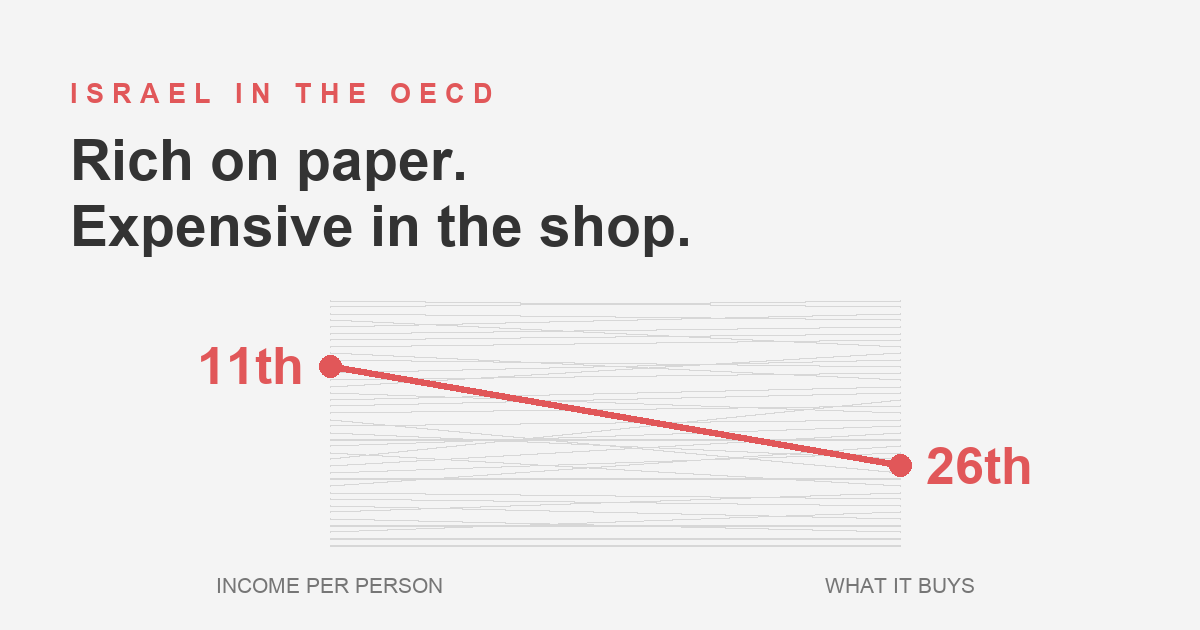
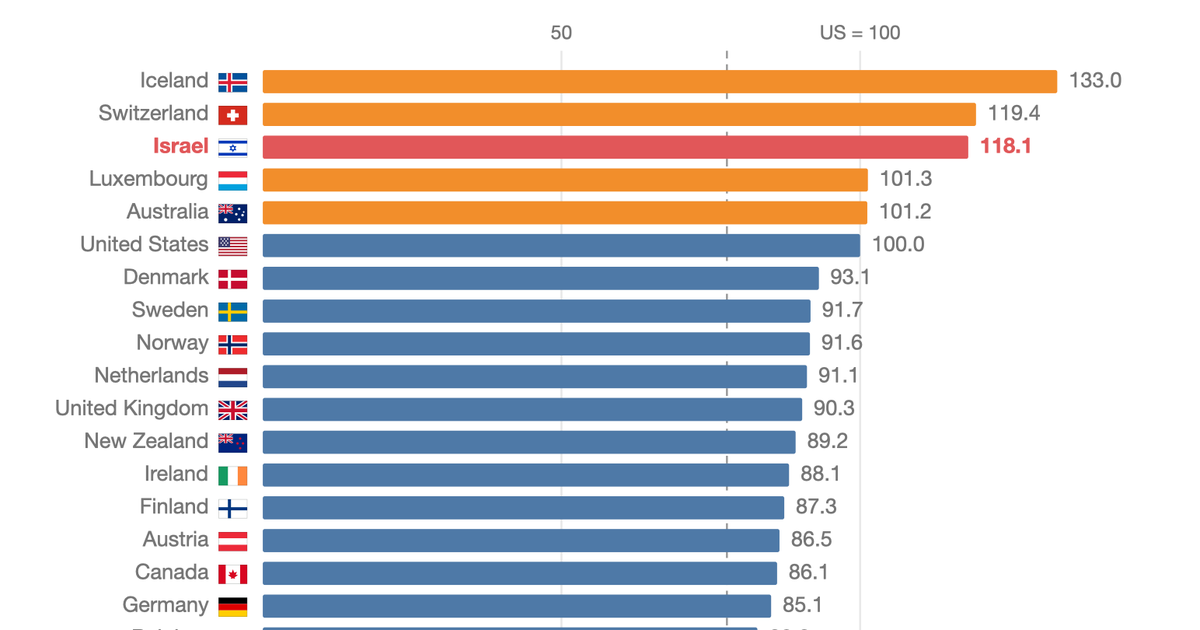
Newspaper masthead and byline; card image is now the real chart
Thumbnail: replaced the graphic I had invented with an actual render of
the price-level chart from the article -- the one carrying all 38 flags.
It is generated by running charts.js headlessly at the real 622px column
width with the real stylesheet, so it is the chart as published, not a
redrawing of it. assets/chart-price-level.png is the full 38-country
chart; assets/og-cost-of-living.png is its top slice at 1200x630 for
link previews. The invented slope graphic is deleted.

The card crops the image to 360px with object-position: top, because a
612px-tall thumbnail pushes the headline below the fold and no news site
does that. Israel still sits third from the top, in red. Removing the
height/object-fit/object-position lines shows all 38 rows instead.

News chrome, using only what was already true on the site: centred
masthead over a rule, the existing tagline set in small caps, an
uppercase nav bar between rules, and on the article a section kicker
above the headline with a "By David Zeff" byline over the date line.
Nothing invented -- no fake sections, no fake counters, no placeholder
furniture.

Also untangled the card CSS. `.card p` was a descendant selector that
kept outranking the one-class rules beside it, which is what broke the
kicker colour earlier; excerpts now carry an .excerpt class and the
generic rule is gone.

qlmanage fits SVG to width on a square canvas, so a portrait chart got
clipped. The screenshot pipeline pads to a square canvas and locates a
[…]

diff --git a/assets/styles.css b/assets/styles.css
@@ -32,15 +32,22 @@ body {
 a { color: var(--blue); }
 a:hover { color: var(--red); }
 
-/* --- header and footer --- */
-header, footer {
-  display: flex; justify-content: space-between; flex-wrap: wrap; gap: 10px;
-  font-family: var(--sans); font-size: 14px;
-}
-header { margin-bottom: 40px; padding-bottom: 12px; border-bottom: 1px solid var(--line); }
-footer { margin-top: 60px; padding-top: 12px; border-top: 1px solid var(--line); color: var(--muted); }
-header > a { font-weight: bold; color: var(--text); text-decoration: none; }
-nav a + a, footer span a + a { margin-left: 14px; }
+/* --- masthead --- */
+header { text-align: center; margin-bottom: 32px; border-bottom: 3px solid var(--text); }
+.masthead { display: block; font-size: 42px; font-weight: bold; line-height: 1.1;
+            letter-spacing: -.5px; color: var(--text); text-decoration: none; }
+.tagline { font-family: var(--sans); font-size: 11px; letter-spacing: 2px; text-transform: uppercase;
+           color: var(--muted); margin: 7px 0 14px; }
+header nav { display: flex; justify-content: center; gap: 26px; padding: 9px 0;
+             border-top: 1px solid var(--line); font-family: var(--sans);
+             font-size: 12px; letter-spacing: 1.2px; text-transform: uppercase; }
+header nav a { color: var(--text); text-decoration: none; }
+header nav a:hover { color: var(--red); }
+
+footer { display: flex; justify-content: space-between; flex-wrap: wrap; gap: 10px;
+         margin-top: 60px; padding-top: 12px; border-top: 1px solid var(--line);
+         font-family: var(--sans); font-size: 14px; color: var(--muted); }
+footer span a + a { margin-left: 14px; }
 
 /* --- text --- */
 h1 { font-size: 32px; line-height: 1.25; margin: 0 0 12px; }
@@ -51,7 +58,10 @@ ul, ol { padding-left: 24px; }
 li { margin-bottom: 8px; }
 
 .deck { font-size: 21px; color: #555; margin-bottom: 14px; }
+.byline { font-family: var(--sans); font-size: 14px; font-weight: bold; margin: 0 0 3px; }
 .meta { font-family: var(--sans); font-size: 13px; color: var(--muted); margin-bottom: 36px; }
+.kicker { font-family: var(--sans); font-size: 12px; font-weight: bold; letter-spacing: 1px;
+          text-transform: uppercase; color: var(--red); margin: 0 0 6px; }
 .meta span + span::before { content: " | "; }
 
 blockquote { margin: 34px 0; padding: 4px 0 4px 18px; border-left: 4px solid var(--blue);
@@ -83,21 +93,18 @@ figcaption { font-family: var(--sans); font-size: 12px; line-height: 1.5; color:
 .posts { list-style: none; padding: 0; margin: 0 0 20px; }
 .card { display: flex; gap: 16px; margin: 0; padding: 20px 0; border-bottom: 1px solid var(--line); }
 .card img { display: block; width: 170px; height: auto; border: 1px solid var(--line); }
-.card p { margin: 0 0 6px; font-size: 16px; color: #555; }
-.card .meta { font-size: 13px; margin: 8px 0 0; }
-/* .card .kicker, not .kicker: `.card p` and `.card--lead > div > p` both
-   outrank a lone class and would steal the colour and the size */
-.card .kicker { font-family: var(--sans); font-size: 12px; font-weight: bold; letter-spacing: 1px;
-          text-transform: uppercase; color: var(--red); margin: 0 0 4px; }
+.excerpt { margin: 0; font-size: 16px; color: #555; }
+.card .meta { font-size: 13px; margin: 10px 0 0; }
 .card__title { margin: 0 0 8px; font-size: 21px; line-height: 1.3; }
 .card__title a { color: var(--text); text-decoration: none; }
 .card__title a:hover { color: var(--blue); text-decoration: underline; }
 
 /* lead story: image on top, everything bigger */
 .card--lead { display: block; padding-top: 0; }
-.card--lead img { width: 100%; margin-bottom: 16px; }
-.card--lead .card__title { font-size: 31px; }
-.card--lead > div > p { font-size: 17px; }
+.card--lead img { width: 100%; height: 360px; object-fit: cover; object-position: top;
+                  margin-bottom: 16px; }
+.card--lead .card__title { font-size: 32px; }
+.card--lead .excerpt { font-size: 17px; }
 
 @media (max-width: 560px) {
   .card { display: block; }

diff --git a/index.html b/index.html
@@ -19,7 +19,8 @@
 <a class="skip" href="#main">Skip to content</a>
 
 <header>
-  <a href="./">David Zeff</a>
+  <a class="masthead" href="./">David Zeff</a>
+  <p class="tagline">Economics, public policy and the numbers underneath them</p>
   <nav><a href="./">Essays</a><a href="about.html">About</a></nav>
 </header>
 
@@ -29,13 +30,13 @@
 
     <li class="card card--lead">
       <a href="posts/israel-cost-of-living.html">
-        <img src="assets/thumb-cost-of-living.svg" width="640" height="400"
-             alt="Slope chart: Israel falls from 11th to 26th of 38 OECD countries once income is adjusted for prices.">
+        <img src="assets/chart-price-level.png" width="1244" height="1420"
+             alt="Bar chart of comparative price levels in all 38 OECD countries, United States = 100. Israel is third highest at 118.1.">
       </a>
       <div class="card__txt">
         <p class="kicker">Economics</p>
         <h1 class="card__title"><a href="posts/israel-cost-of-living.html">Israel is a rich country that is too expensive to live in</a></h1>
-        <p>Our prices run about 62% higher than our output per person predicts, which makes
+        <p class="excerpt">Our prices run about 62% higher than our output per person predicts, which makes
           Israel the biggest outlier in the OECD. Where the gap comes from, what the OECD
           recommends, and the three objections I think are fair.</p>
         <p class="meta">David Zeff · 20 August 2026 · 12 min read</p>
@@ -46,7 +47,7 @@
       <div class="card__txt">
         <p class="kicker">Next up</p>
         <h3 class="card__title">Essay 002 — in progress</h3>
-        <p>Still being written.</p>
+        <p class="excerpt">Still being written.</p>
       </div>
     </li>
 

diff --git a/posts/israel-cost-of-living.html b/posts/israel-cost-of-living.html
@@ -19,17 +19,20 @@
 <a class="skip" href="#main">Skip to the article</a>
 
 <header>
-  <a href="../"><b>David Zeff</b></a>
+  <a class="masthead" href="../">David Zeff</a>
+  <p class="tagline">Economics, public policy and the numbers underneath them</p>
   <nav><a href="../">Essays</a><a href="../about.html">About</a></nav>
 </header>
 
 <main id="main">
 
+  <p class="kicker">Economics</p>
   <h1>Israel is a rich country that is too expensive to live in</h1>
   <p class="deck">By income per person, Israel ranks 11th out of the 38 OECD countries. Adjust
     that income for what it actually buys here and we're 26th. Nobody else in the OECD falls
     that far.</p>
-  <p class="meta"><span>David Zeff</span><span>20 August 2026</span><span>12 min</span><span>IMF WEO April 2026</span></p>
+  <p class="byline">By David Zeff</p>
+  <p class="meta"><span>20 August 2026</span><span>12 min read</span><span>IMF WEO April 2026</span></p>
 
   <p>The IMF expects Israel's economy to produce around $720 billion this year. Split that across
     the population and it comes to roughly $69,800 a head, which puts us ahead of Austria, Germany

diff --git a/about.html b/about.html
@@ -11,7 +11,8 @@
 <a class="skip" href="#main">Skip to content</a>
 
 <header>
-  <a href="./"><b>David Zeff</b></a>
+  <a class="masthead" href="./">David Zeff</a>
+  <p class="tagline">Economics, public policy and the numbers underneath them</p>
   <nav><a href="./">Essays</a><a href="about.html">About</a></nav>
 </header>
 
